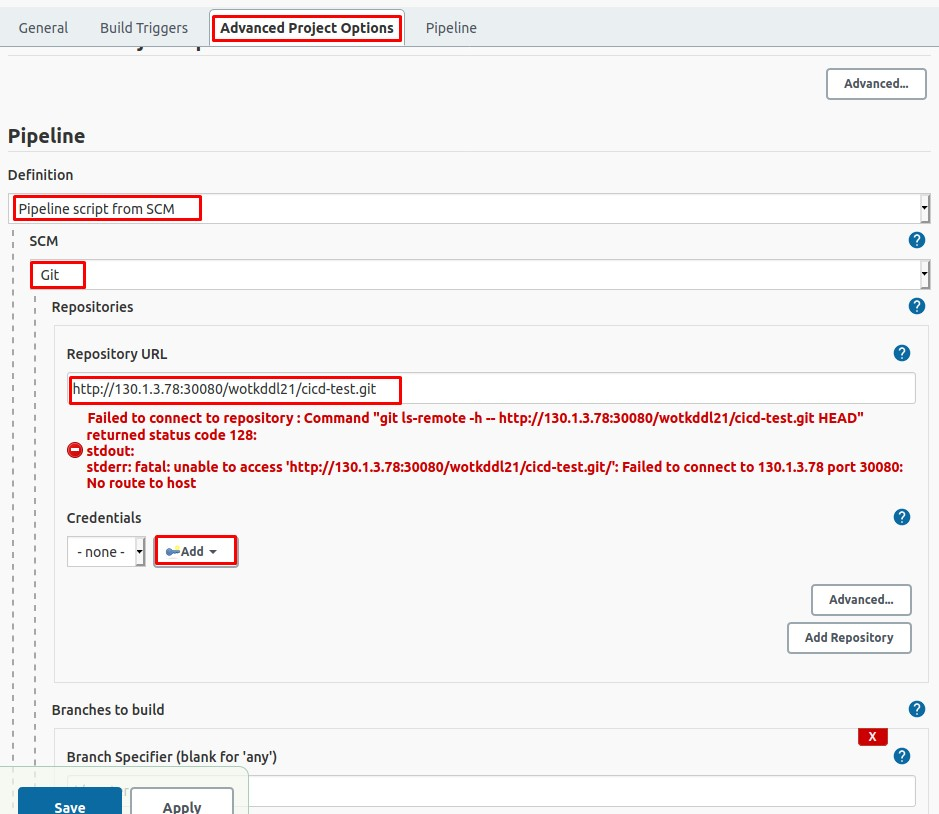
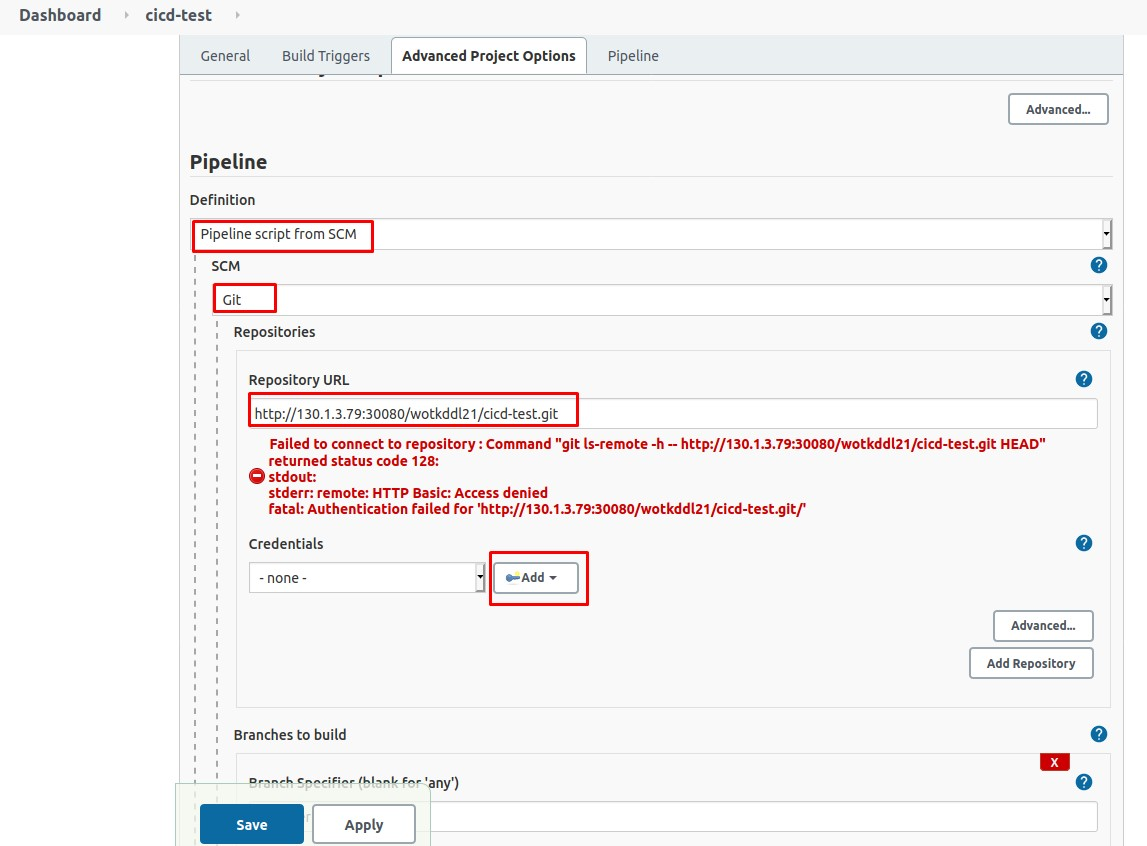
마무리

diff --git a/week5/CI-CD/5.jenkinsfile/Readme.md b/week5/CI-CD/5.jenkinsfile/Readme.md
@@ -196,67 +196,18 @@ podTemplate을 먼저 선언하고, node('builder')의 stage 3가지 ( Checkout,
 
 이제 POD를 배포하기 위한 yaml과 POD를 외부로 노출시키기 위한 yaml을 작성해야 합니다.
 
-Dockerfile, Jenkinsfile와 같은 위치에 저장하시면됩니다.
+제 project를 따라하셨다면, k8s 디렉토리에 deployment.yaml과 service.yaml을 사용하시면 됩니다.
 
-
-./k8s/deployment.yaml
-```yaml
-apiVersion: apps/v1
-kind: Deployment
-metadata:
-  name: react-test
-  labels: 
-    app: react-test
-spec:
-  replicas: 1
-  selector:
-    matchLabels:
-      app: react-test
-  template:
-    metadata:
-      labels:
-        app: react-test
-    spec:
-      containers:
-      - name: react-container
-        image: wotkddl21/react-test
-        ports:
-        - containerPort: 3000
-        env:
-        - name: DATE
-          value: '2021-02-16'
-      imagePullSecrets:
-        - name: my-secret
-
-```
-
-./k8s/service.yaml
-``` yaml
-apiVersion: v1
-kind: Service
-metadata: 
-  name: react-service
-spec:
-  ports:
-    - name: "react-port"
-      port: 3000
-      protocol: TCP
-      targetPort: 3000
-      nodePort: 31111
-    - name: "backend-port"
-      targetPort: 31112
-      protocol: TCP
-      nodePort: 31112
-      port: 31112
-  selector:
-    app: react-test
-  type: NodePort
-```
+다른 project를 연동하신다면 제 yaml을 참고해서 작성하시면 됩니다.
 
 이제 테스트를 진행해보겠습니다.
 
 개발환경에서, git push를 진행해보겠습니다.
 
+```shell
+
+git push -u origin --tags
+```
 <img src="/images/CICD/107.jpg">
 
 <img src="/images/CICD/114.jpg">
@@ -277,13 +228,24 @@ console output 클릭
 
 이제 kubernetes cluster에서, cicd-space namespace의 POD와 service를 확인해보겠습니다.
 
+```shell
+kubectl get svc -n cicd-space
+kubectl get pod -n cicd-space
+```
 
+<img src="/images/CICD/119.jpg">
 
+<img src="/images/CICD/120.jpg">
 
+POD와 service가 정상적으로 동작하고 있습니다.
 
+이제 실제로 접속해보겠습니다.
 
+localhost:31111   ( localhost가 아닌, node의 ip로 접근하면 kakao 지도 api가 연동이 되지 않으니 localhost로 진행하셔야합니다. )
 
+kubernetes cluster의 모든 node에서 접근이 가능합니다.
 
+<img src="/images/CICD/118.jpg">
 
 
 

diff --git a/week5/CI-CD/1.gitlab/Readme.md b/week5/CI-CD/1.gitlab/Readme.md
@@ -141,7 +141,7 @@ gitlab계정을 생성해서, 이 gitlab POD와 연동을 해야합니다.
 ``` shell
 // 개발환경에서 진행 ( 외부 node )
 
-git clone https://github.com/wotkddl21/capstone2_public.git
+git clone https://github.com/wotkddl21/cicd-test-k8s.git
 cd capstone2_public
 git remote rename origin old-origin
 git remote add origin http://< node ip>:30080/<gitlab username>/<gitlab project>.git
@@ -150,12 +150,6 @@ git push -u origin --tags
 ```
 
 <img src="/images/CICD/19.JPG">
-
-<img src="/images/CICD/21.JPG">
-
-<img src="/images/CICD/22.JPG">
-
-<img src="/images/CICD/23.JPG">
 
 push를 하게 되면 git credential을 입력해야합니다.
 
@@ -205,21 +199,4 @@ Projects를 통해 확인해보겠습니다.
 
 <img src="/images/CICD/34.JPG">
 
-<img src="/images/CICD/35.JPG">
-
-push를 한 번 진행해보겠습니다.
-
-<img src="/images/CICD/36.JPG">
-
-commit 2021-03-30이 써져있는 commit.txt를 만들었습니다.
-
-``` shell
-git add .
-git commit -m "from local dev"
-git push
-```
-<img src="/images/CICD/37.JPG">
-
-gitlab에 접속해서 새로고침을 하게 되면 아래와 같이 commit.txt를 확인할 수 있습니다.
-
-<img src="/images/CICD/37.JPG">
+<img src="/images/CICD/temp.jpg">

diff --git a/week5/CI-CD/4.dockerfile/Readme.md b/week5/CI-CD/4.dockerfile/Readme.md
@@ -120,16 +120,14 @@ Dockerfile은 docker명령어에서 build할 때 사용되는 파일입니다.
 ``` dockerfile
 FROM node:12.2.0-alpine
 
-# set working directory.
+# set working directory
 COPY . .
-
-WORKDIR /
-RUN npm install 
-
-WORKDIR /client
+WORKDIR /react-test/client
 RUN npm install
 
-WORKDIR /
+
+WORKDIR /react-test
+RUN npm install 
 # 앱 실행
 CMD ["npm", "run", "dev"]
 ```
@@ -144,9 +142,9 @@ WORKDIR은 다음 명령어가 실행될 위치를 지정합니다.
 
 이 Dockerfile의 흐름은, 현재 디렉토리의 모든 파일을 container로 옮긴 뒤,
 
-/:~# npm install
-/client:~# npm install
-/:~# npm run dev
+/react-test/client:~# npm install
+/react-test:~# npm install
+/react-test:~# npm run dev
 
 를 실행하는 것입니다.
 

diff --git a/week5/CI-CD/3.sync-jenkins-gitlab/Readme.md b/week5/CI-CD/3.sync-jenkins-gitlab/Readme.md
@@ -44,6 +44,8 @@ access token : RDyHsKik9mzByyQX7SBi
 
 Manage jenkins -> Configure System
 
+## 하루 뒤에 작성하느라, 재부팅을 했더니 IP가 130.1.3.79로 바뀌었습니다.
+
 <img src="/images/CICD/84.jpg">
 
 connection name : gitlab
